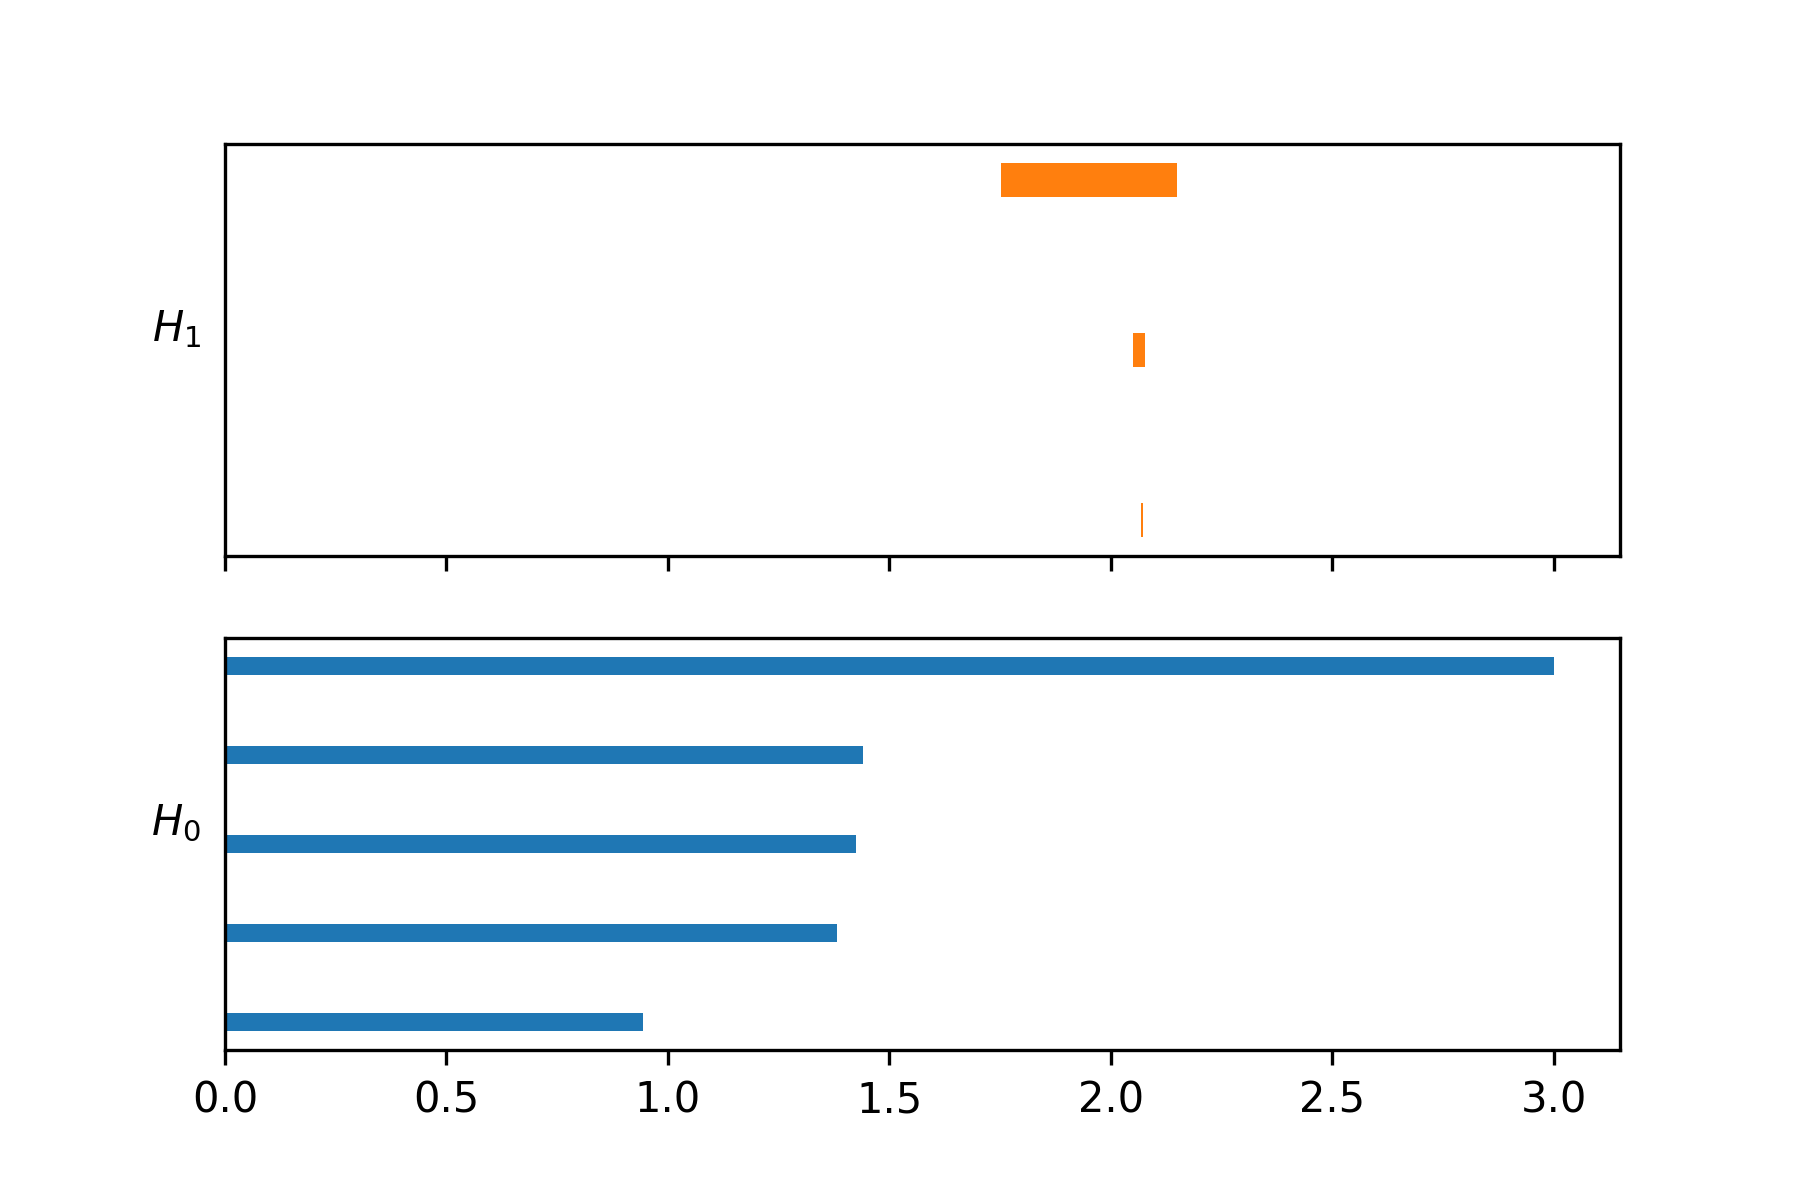
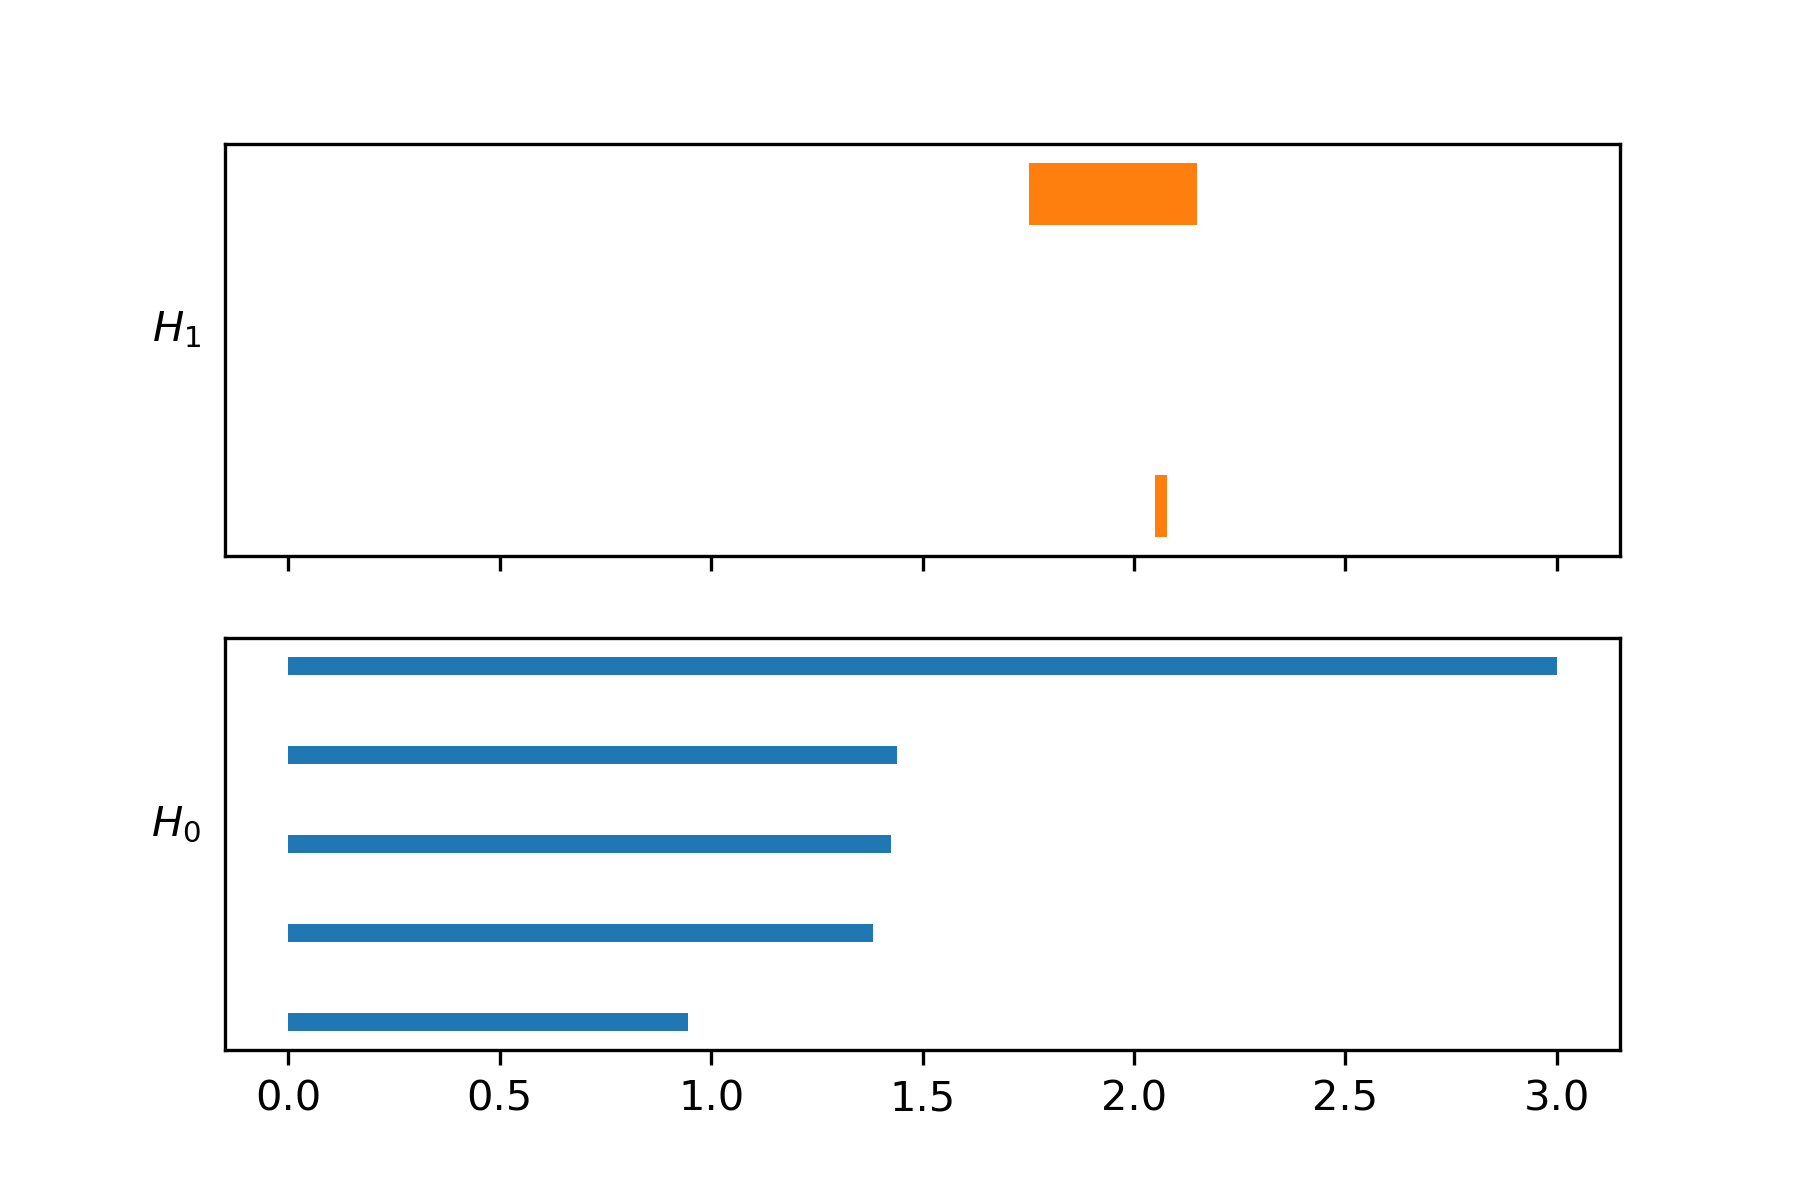
Elimina parejas que nacen y mueren a la vez en el dibujo

diff --git a/code/complejosSimpliciales.py b/code/complejosSimpliciales.py
@@ -656,8 +656,18 @@ class Complejo():
                 birth[i] = np.append(birth[i], np.array(infinity[i]))
                 death[i] = np.append(death[i], np.array([maxDeath for j in range(len(infinity[i]))]))
 
+            #Elimina las parejas que nacen y mueren a la vez
+            n = 0
+            while n < len(birth[i]):
+                print(i, n, birth[i][n])
+                if birth[i][n] == death[i][n]:
+                    birth[i] = np.delete(birth[i], n)
+                    death[i] = np.delete(death[i], n)
+                    n = n-1
+                n = n+1
+            
             diff = death[i] - birth[i]
-            diff[diff<=0] = 0.005
+            #diff[diff<=0] = 0.005 
             ax[i].barh(y=np.arange(len(birth[i])),
                        width=diff,
                        height=0.2,
